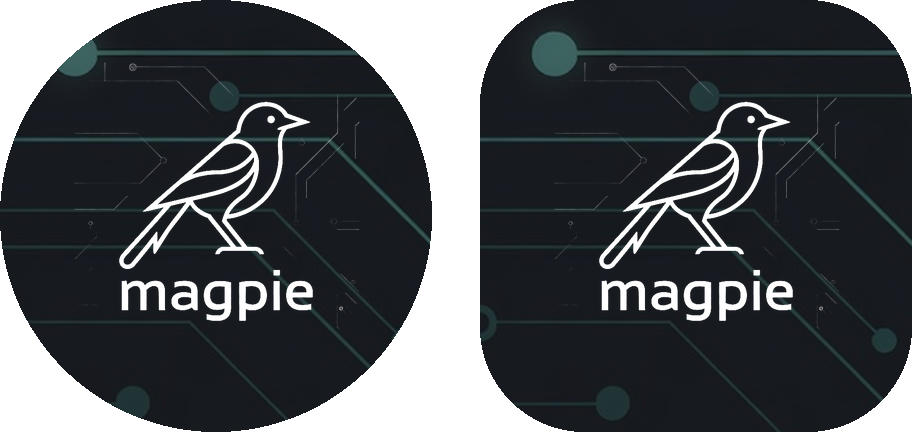
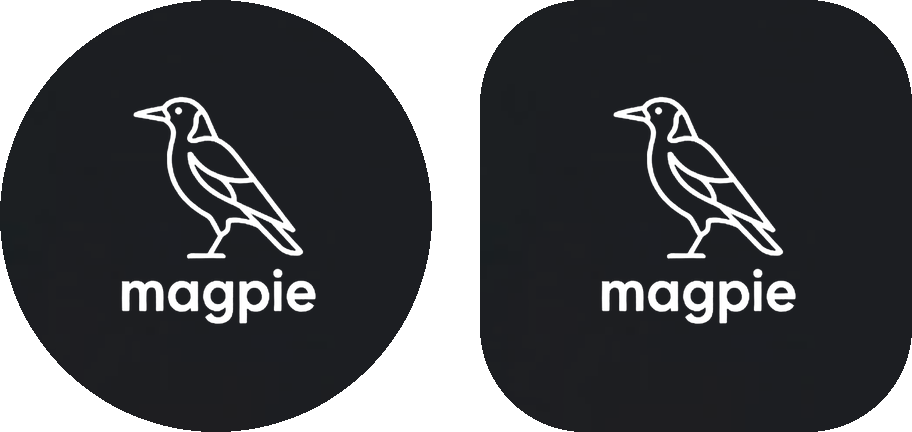
Magpie: cut the launcher and brand assets from the new tile artwork
New source drawing: the same white line-art magpie over a circuit-board
tile, redrawn — a more upright bird on a ground line, cleaner strokes, a
glossy bevelled frame.

That bevel is why the frame detector needed help: its highlight reads
brighter than the luminance band the old artwork was tuned for, while
the new outer field sits darker. Rather than re-tune heuristics per
drawing, the script now takes the frame measurements as arguments
(--tile, --thickness, --radius) and the values used are recorded here:
--tile 414,62,1014,668 --thickness 56 --radius 90. Detection remains the
default for artwork it fits.

Every asset is regenerated from the one source: launcher background,
foreground and monochrome at all five densities, the status bar icon,
the in-app tile and the store image. The preview shows the mark whole
inside both the circle and squircle masks, and the three faint dots and
frame gloss stayed out of the ink — checked against the pixel values,
not assumed.

Claude-Session: https://claude.ai/code/session_01J8Axf9KUU1T23HzfVSihyn

diff --git a/magpie/src/test/java/com/magpie/filer/ai/SettingsFileTest.kt b/magpie/src/test/java/com/magpie/filer/ai/SettingsFileTest.kt
@@ -1,0 +1,97 @@
+package com.magpie.filer.ai
+
+import org.junit.Assert.assertEquals
+import org.junit.Assert.assertFalse
+import org.junit.Assert.assertNull
+import org.junit.Assert.assertTrue
+import org.junit.Test
+
+/**
+ * The settings file has one hard rule — no credential ever goes in it — and
+ * one soft one: whatever another version of Magpie wrote, read what is
+ * readable rather than refusing the lot.
+ */
+class SettingsFileTest {
+
+    private val portable = SettingsFile.Portable(
+        rules = listOf(
+            Rule(extension = ".pdf", word = "invoice", folder = "Invoices"),
+            Rule(extension = ".jpg", word = "", folder = "Photos"),
+        ),
+        watchedFolders = listOf("/storage/emulated/0/Pictures/Scans"),
+        groupGapMinutes = 120,
+    )
+
+    @Test
+    fun `settings survive a round trip unchanged`() {
+        val back = SettingsFile.read(SettingsFile.write(portable))
+        assertEquals(portable, back)
+    }
+
+    @Test
+    fun `the api key never appears in the file`() {
+        // Nothing here even accepts a key, and this pins that: a settings file
+        // gets copied to cloud drives, and a credential does not belong in it.
+        val text = SettingsFile.write(portable).lowercase()
+        assertFalse(text, text.contains("apikey"))
+        assertFalse(text, text.contains("sk-ant"))
+    }
+
+    @Test
+    fun `garbage is null, not a crash and not an empty settings object`() {
+        assertNull(SettingsFile.read(null))
+        assertNull(SettingsFile.read(""))
+        assertNull(SettingsFile.read("not json"))
+        // Valid JSON that is not a Magpie settings file must also be refused,
+        // or importing the wrong file would silently do nothing forever.
+        assertNull(SettingsFile.read("""{"some":"other file"}"""))
+    }
+
+    @Test
+    fun `a file with only some of the pieces yields the pieces it has`() {
+        val sparse = SettingsFile.read("""{"magpie":1,"groupGapMinutes":60}""")
+
+        assertEquals(emptyList<Rule>(), sparse?.rules)
+        assertEquals(emptyList<String>(), sparse?.watchedFolders)
+        assertEquals(60L, sparse?.groupGapMinutes)
+    }
+
+    @Test
+    fun `a rule that would match everything is dropped on import`() {
+        val text = """{"magpie":1,"rules":[
+            {"extension":"","word":"","folder":"Everything"},
+            {"extension":".pdf","word":"","folder":"Papers"}
+        ]}"""
+
+        val back = SettingsFile.read(text)
+
+        assertEquals(1, back?.rules?.size)
+        assertEquals("Papers", back?.rules?.single()?.folder)
+    }
+
+    @Test
+    fun `a folder entry that is not a path is dropped`() {
+        val text = """{"magpie":1,"watchedFolders":["/real/path","not a path",""]}"""
+        assertEquals(listOf("/real/path"), SettingsFile.read(text)?.watchedFolders)
+    }
+
+    @Test
+    fun `a nonsense gap is dropped rather than imported`() {
+        assertNull(SettingsFile.read("""{"magpie":1,"groupGapMinutes":-5}""")?.groupGapMinutes)
+        assertNull(SettingsFile.read("""{"magpie":1}""")?.groupGapMinutes)
+    }
+
+    @Test
+    fun `no gap in the file does not become a gap of zero`() {
+        val back = SettingsFile.read("""{"magpie":1,"rules":[]}""")
+        assertTrue(back != null)
+        assertNull(back?.groupGapMinutes)
+    }
+
+    @Test
+    fun `a newer version's file still yields what this version understands`() {
+        val text = """{"magpie":9,"rules":[{"extension":".pdf","word":"","folder":"P"}],
+            "somethingNewer":{"deep":true}}"""
+        assertEquals(1, SettingsFile.read(text)?.rules?.size)
+    }
+}

diff --git a/magpie/src/main/java/com/magpie/filer/ai/SettingsFile.kt b/magpie/src/main/java/com/magpie/filer/ai/SettingsFile.kt
@@ -1,0 +1,76 @@
+package com.magpie.filer.ai
+
+import org.json.JSONArray
+import org.json.JSONException
+import org.json.JSONObject
+
+/**
+ * Magpie's settings as a file you can keep.
+ *
+ * Rules accrete real value — each one is a decision you made once and never
+ * want to make again — and losing them to a reinstall or a new phone would
+ * sting. This writes the portable ones down as JSON and reads them back.
+ *
+ * **The API key is never included.** A settings file gets copied to cloud
+ * drives and pasted into chats; a credential does not belong in it. Neither
+ * does the library folder: its permission grant is this-device-only and would
+ * import as a folder Magpie cannot actually open.
+ */
+object SettingsFile {
+
+    private const val VERSION = 1
+    private const val KEY_MARK = "magpie"
+    private const val KEY_RULES = "rules"
+    private const val KEY_FOLDERS = "watchedFolders"
+    private const val KEY_GAP = "groupGapMinutes"
+
+    /** What travels: the settings that mean the same thing on any device. */
+    data class Portable(
+        val rules: List<Rule> = emptyList(),
+        val watchedFolders: List<String> = emptyList(),
+        val groupGapMinutes: Long? = null,
+    )
+
+    fun write(portable: Portable): String = JSONObject().apply {
+        put(KEY_MARK, VERSION)
+        put(KEY_RULES, JSONArray(Rules.toJson(portable.rules)))
+        put(KEY_FOLDERS, JSONArray(portable.watchedFolders))
+        portable.groupGapMinutes?.let { put(KEY_GAP, it) }
+    }.toString(2)
+
+    /**
+     * Read a settings file back, or null when it is not one.
+     *
+     * Anything readable is kept and anything not is dropped — a file from a
+     * newer or older Magpie yields what it can rather than nothing. A rule
+     * that would match everything is dropped here too, the same as anywhere
+     * else one might come from.
+     */
+    fun read(text: String?): Portable? {
+        if (text.isNullOrBlank()) return null
+        val json = try {
+            JSONObject(text)
+        } catch (e: JSONException) {
+            return null
+        }
+        if (!json.has(KEY_MARK)) return null
+
+        val folders = json.optJSONArray(KEY_FOLDERS)?.let { array ->
+            (0 until array.length()).mapNotNull { index ->
+                array.optString(index).takeIf { it.startsWith("/") }
+            }
+        }.orEmpty()
+
+        val gap = if (json.has(KEY_GAP)) {
+            json.optLong(KEY_GAP).takeIf { it > 0 }
+        } else {
+            null
+        }
+
+        return Portable(
+            rules = Rules.fromJson(json.optJSONArray(KEY_RULES)?.toString()),
+            watchedFolders = folders,
+            groupGapMinutes = gap,
+        )
+    }
+}

diff --git a/scripts/render-magpie-icons.py b/scripts/render-magpie-icons.py
@@ -261,8 +261,24 @@ def write(path, im, **kwargs):
 
 def main():
     im = Image.open(SOURCE).convert("RGB")
-    tile, thickness = find_tile(im)
-    radius = corner_radius(im, tile, thickness)
+
+    # The frame detector is tuned per artwork, and a new tile drawing does not
+    # have to fit the old tuning: measure the frame once and pass it in.
+    #   --tile x0,y0,x1,y1   --thickness N   --radius N
+    args = sys.argv[1:]
+
+    def arg(name, parse):
+        return parse(args[args.index(name) + 1]) if name in args else None
+
+    tile = arg("--tile", lambda v: tuple(int(n) for n in v.split(",")))
+    thickness = arg("--thickness", int)
+    radius = arg("--radius", int)
+    if tile is None or thickness is None:
+        found, found_thickness = find_tile(im)
+        tile = tile or found
+        thickness = thickness or found_thickness
+    if radius is None:
+        radius = corner_radius(im, tile, thickness)
     x0, y0, x1, y1 = tile
     interior = (x0 + thickness, y0 + thickness, x1 - thickness, y1 - thickness)
     print(f"tile {tile} frame {thickness}px corner r={radius}px")
